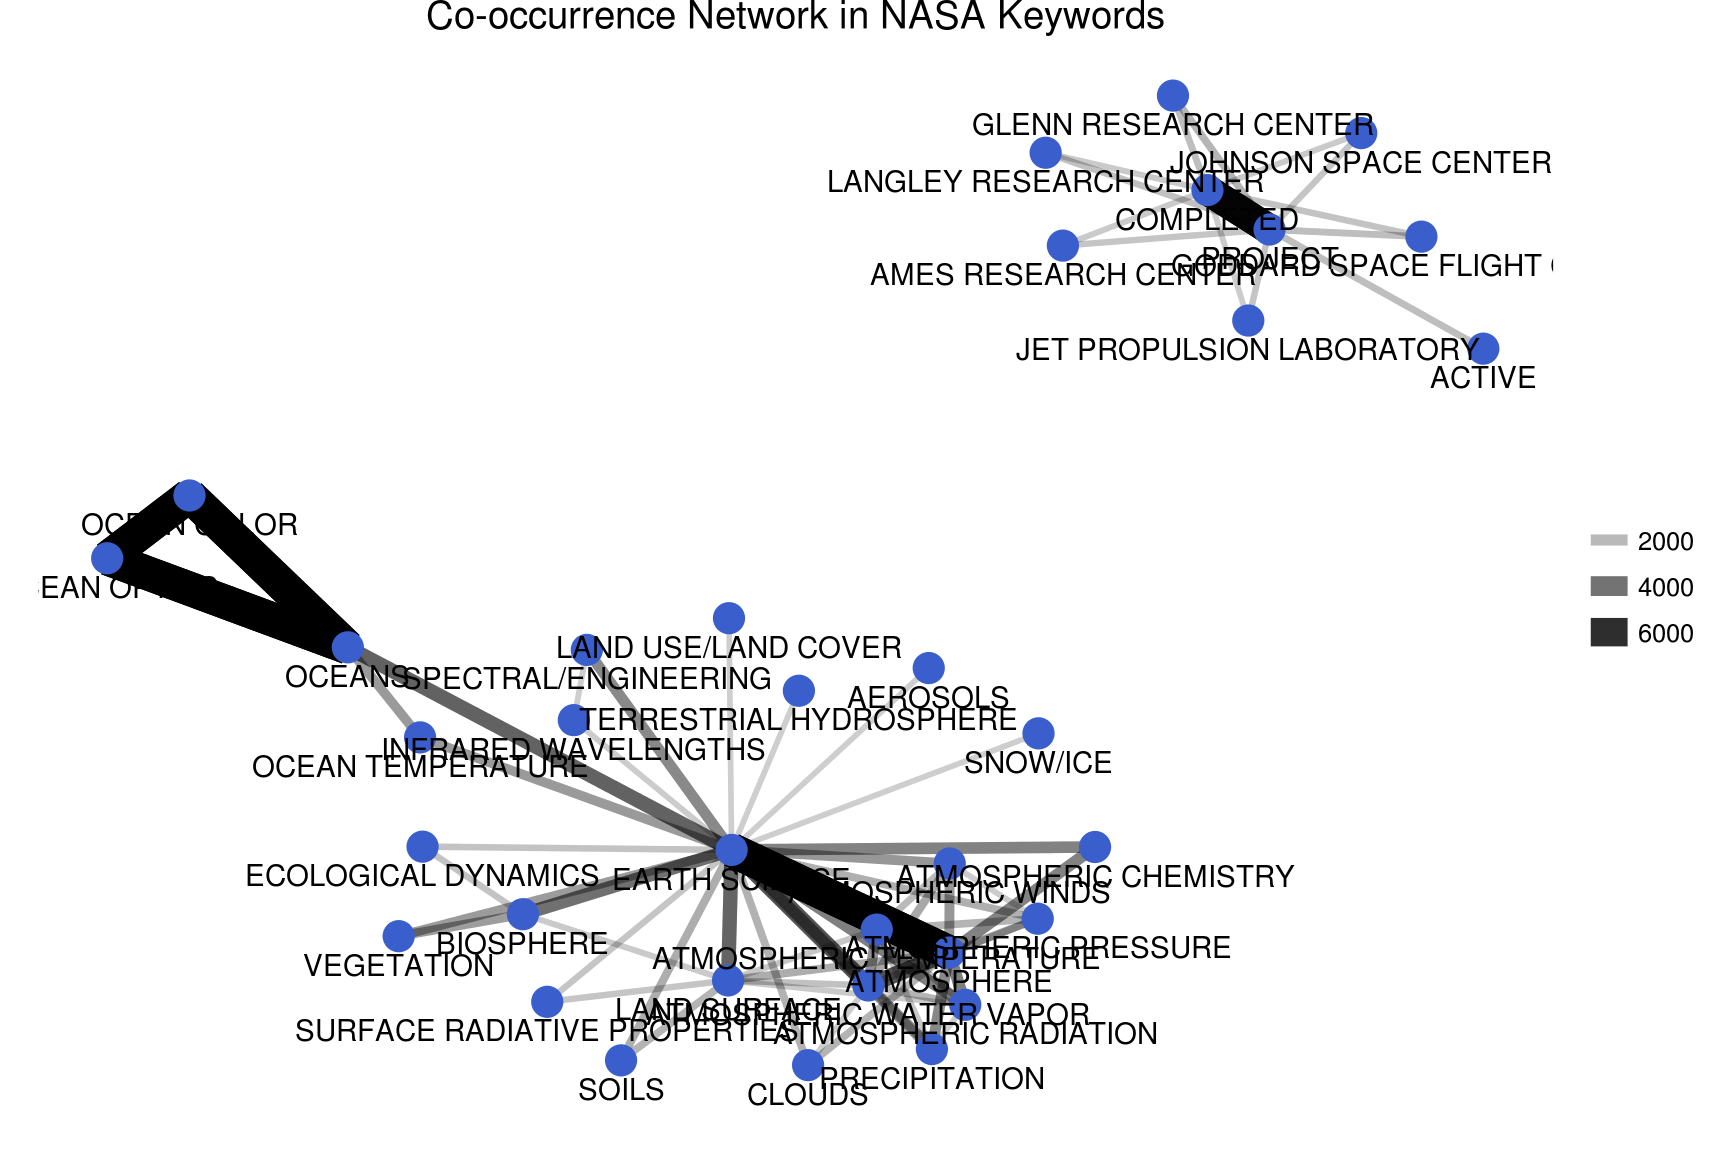
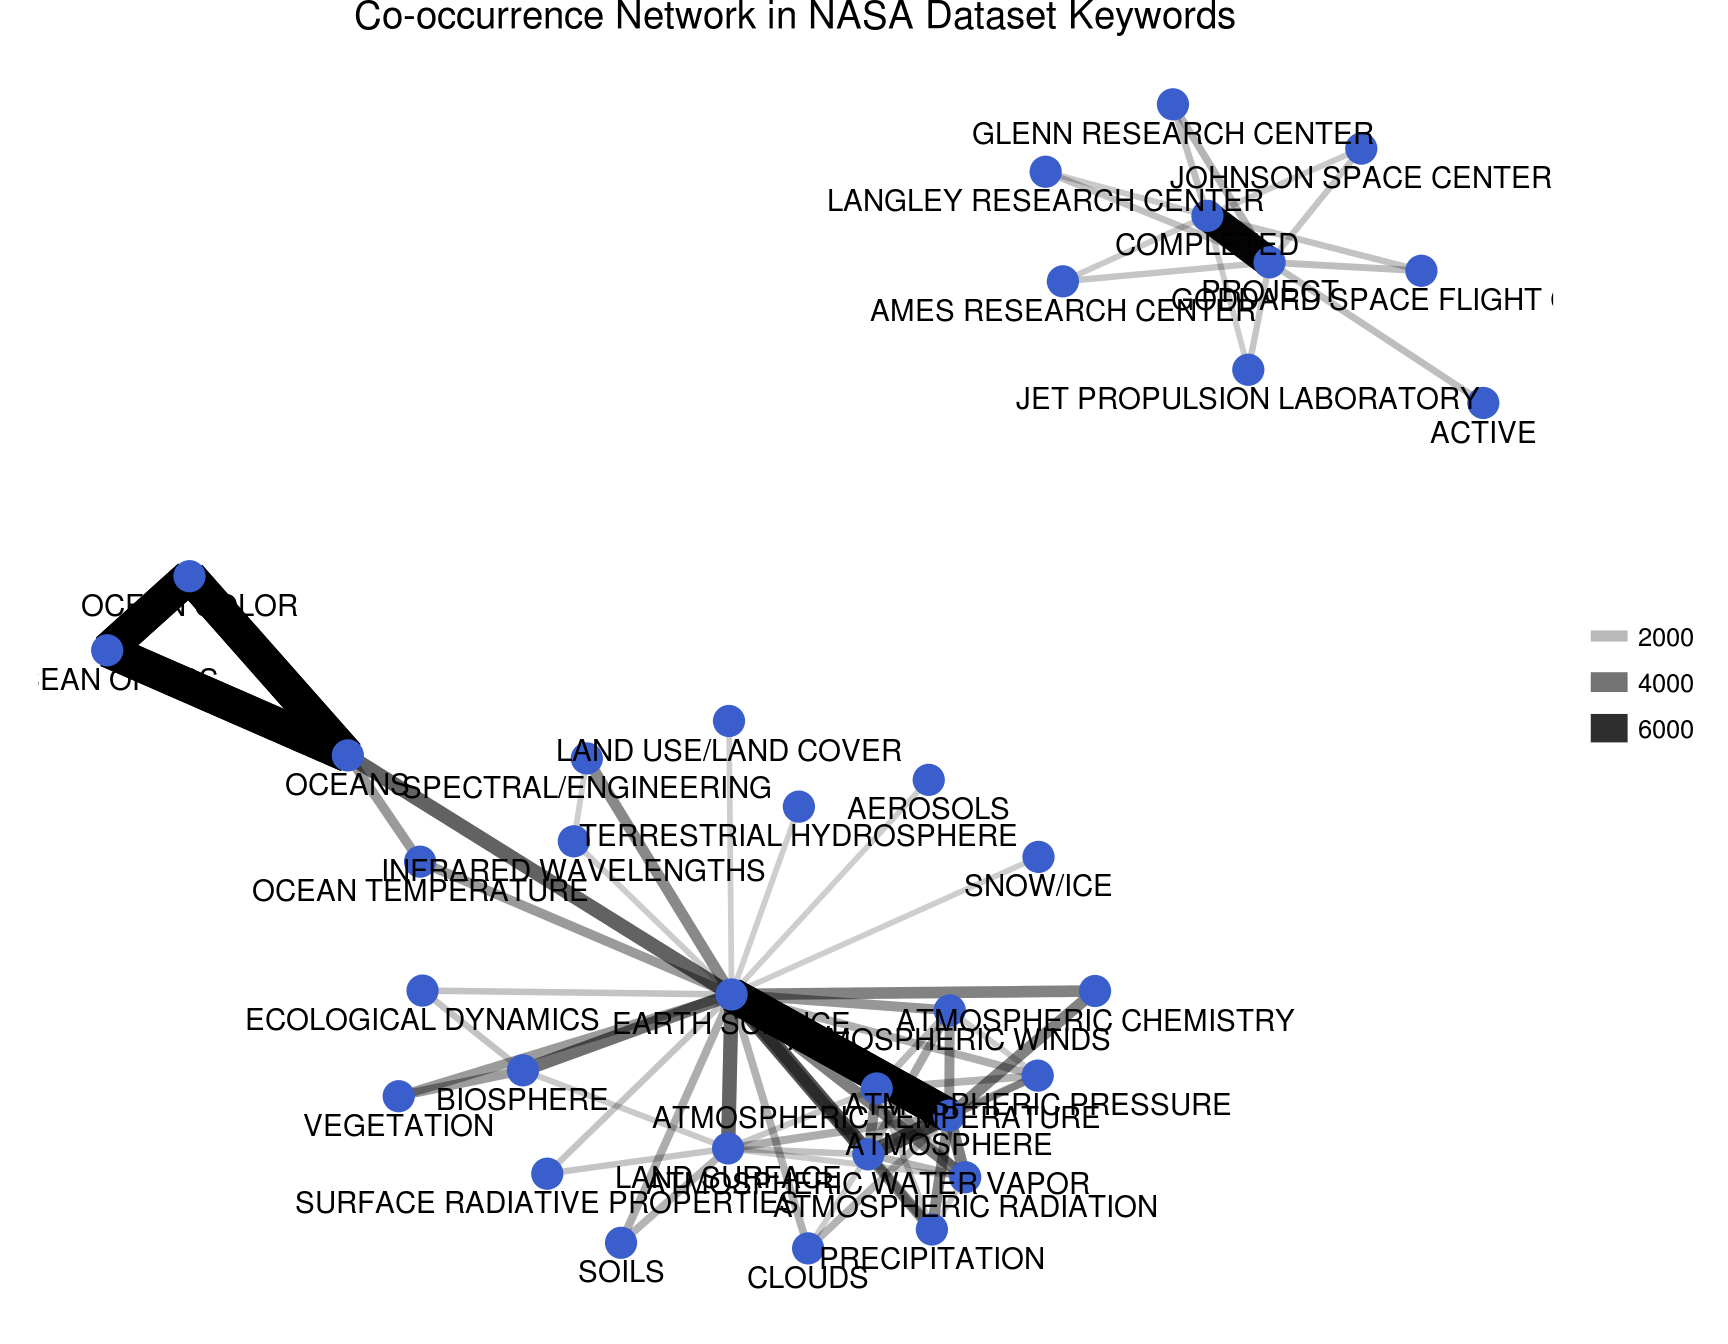
Updating book (52)

diff --git a/nasa.html b/nasa.html
@@ -491,10 +491,10 @@ keyword_counts %&gt;%
 <span class="st">  </span><span class="kw">geom_edge_link</span>(<span class="kw">aes</span>(<span class="dt">edge_alpha =</span> n, <span class="dt">edge_width =</span> n)) +
 <span class="st">  </span><span class="kw">geom_node_point</span>(<span class="dt">color =</span> <span class="st">&quot;royalblue3&quot;</span>, <span class="dt">size =</span> <span class="dv">5</span>) +
 <span class="st">  </span><span class="kw">geom_node_text</span>(<span class="kw">aes</span>(<span class="dt">label =</span> name), <span class="dt">vjust =</span> <span class="fl">1.8</span>) +
-<span class="st">  </span><span class="kw">ggtitle</span>(<span class="st">&quot;Co-occurrence Network in NASA Keywords&quot;</span>) +
+<span class="st">  </span><span class="kw">ggtitle</span>(<span class="st">&quot;Co-occurrence Network in NASA Dataset Keywords&quot;</span>) +
 <span class="st">  </span><span class="kw">theme_void</span>()</code></pre></div>
 <p><img src="09-nasa-metadata_files/figure-html/plot_counts-1.png" width="864" /></p>
-<p>These are the most common co-occurring words, and also just the most common keywords in general. To more meaningfully examine which keywords are likely to appear together instead of separately, we need to find to correlation among the keywords as described in <a href="ngrams.html#ngrams">Chapter 5</a>.</p>
+<p>These are the most commonly co-occurring words, but also just the most common keywords in general. To more meaningfully examine which keywords are likely to appear together instead of separately, we need to find the correlation among the keywords as described in <a href="ngrams.html#ngrams">Chapter 5</a>.</p>
 <p>TODO: correlation of keywords, tf-idf, and topic modeling</p>
 
 </div>

diff --git a/09-nasa-metadata.md b/09-nasa-metadata.md
@@ -430,12 +430,12 @@ keyword_counts %>%
   geom_edge_link(aes(edge_alpha = n, edge_width = n)) +
   geom_node_point(color = "royalblue3", size = 5) +
   geom_node_text(aes(label = name), vjust = 1.8) +
-  ggtitle("Co-occurrence Network in NASA Keywords") +
+  ggtitle("Co-occurrence Network in NASA Dataset Keywords") +
   theme_void()
 ```
 
 <img src="09-nasa-metadata_files/figure-html/plot_counts-1.png" width="864" />
 
-These are the most common co-occurring words, and also just the most common keywords in general. To more meaningfully examine which keywords are likely to appear together instead of separately, we need to find to correlation among the keywords as described in [Chapter 5](#ngrams).
+These are the most commonly co-occurring words, but also just the most common keywords in general. To more meaningfully examine which keywords are likely to appear together instead of separately, we need to find the correlation among the keywords as described in [Chapter 5](#ngrams).
 
 TODO: correlation of keywords, tf-idf, and topic modeling
